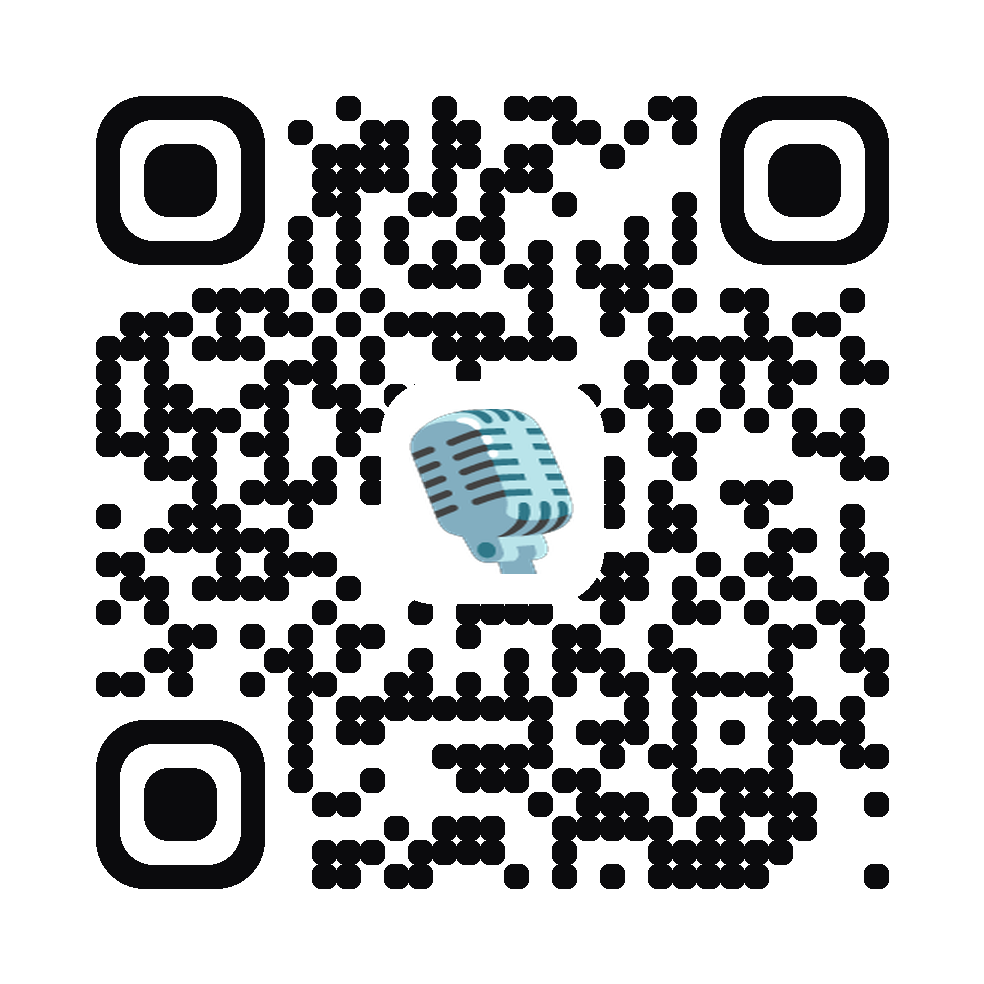
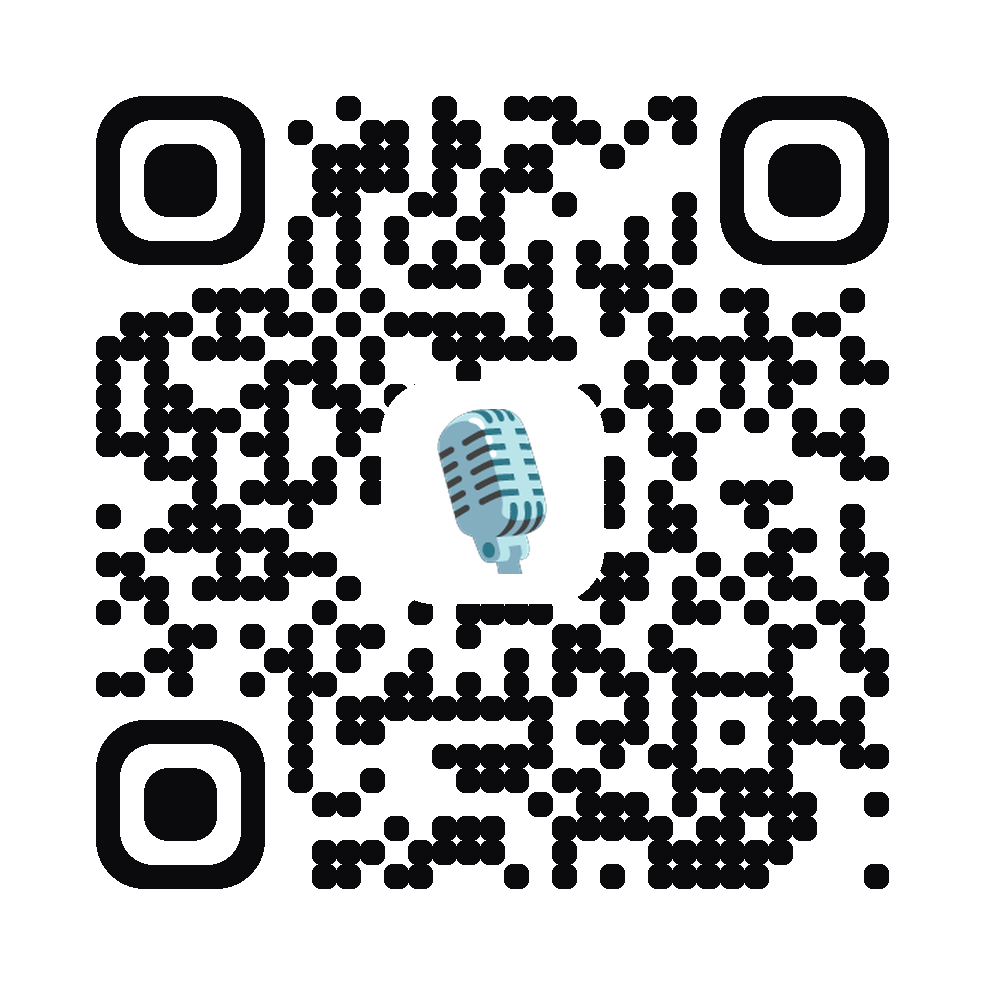
Download: drawer shows full Android/iPhone cards; square QR with unstretched mic

Changed region(s): [[0.3963, 0.3963, 0.5793, 0.5793]]

diff --git a/src/app/download/DownloadHub.tsx b/src/app/download/DownloadHub.tsx
@@ -2,6 +2,28 @@
 
 import { useEffect, useRef, useState } from "react";
 
+const ANDROID = {
+  file: "/downloads/openlounge-0.2.8.apk",
+  version: "0.2.8 (build 10)",
+  size: "6.9 MB",
[1 lines of base64/hex data omitted]
+};
+const IOS = {
+  install: "itms-services://?action=download-manifest&url=https://openlounge.app/downloads/openlounge-ios.plist",
+  file: "/downloads/openlounge-0.2.5-b14.ipa",
+  version: "0.2.5 (build 14)",
+  size: "8.6 MB",
[1 lines of base64/hex data omitted]
+};
+
+function Sha({ value }: { value: string }) {
+  return (
+    <p className="mt-3 text-xs text-zinc-500">
+      SHA-256: <code className="break-all text-zinc-400">{value}</code>
+    </p>
+  );
+}
+
 export function DownloadHub() {
   const [open, setOpen] = useState(false);
   const tabRef = useRef<HTMLButtonElement>(null);
@@ -22,7 +44,7 @@ export function DownloadHub() {
 
   return (
     <main className="relative flex min-h-dvh items-center justify-center overflow-hidden p-6">
-      <img src="/downloads/qr.png" alt="QR code to openlounge.app/download" className="w-64 max-w-[80vw] rounded-3xl bg-white p-3 md:w-80" data-testid="download-qr" />
+      <img src="/downloads/qr.png" alt="QR code to openlounge.app/download" width={984} height={984} className="aspect-square h-auto w-64 max-w-[80vw] rounded-3xl bg-white object-contain md:w-80" data-testid="download-qr" />
 
       {open && <div className="fixed inset-0 z-40 bg-black/40" onClick={() => setOpen(false)} aria-hidden="true" />}
 
@@ -33,7 +55,7 @@ export function DownloadHub() {
         aria-controls="get-app-drawer"
         onClick={() => setOpen((o) => !o)}
         data-testid="get-app-tab"
-        className={`fixed top-1/2 z-50 -translate-y-1/2 rounded-l-xl bg-zinc-800 px-2 py-4 text-sm font-semibold text-zinc-100 shadow-lg transition-[right] duration-300 [writing-mode:vertical-rl] ${open ? "right-72" : "right-0"}`}
+        className={`fixed top-1/2 z-50 -translate-y-1/2 rounded-l-xl bg-zinc-800 px-2 py-4 text-sm font-semibold text-zinc-100 shadow-lg transition-[right] duration-300 [writing-mode:vertical-rl] ${open ? "right-[min(24rem,88vw)]" : "right-0"}`}
       >
         Get the app
       </button>
@@ -44,21 +66,53 @@ export function DownloadHub() {
         aria-label="Get the app"
         aria-hidden={!open}
         inert={!open}
-        className={`fixed top-0 right-0 z-50 flex h-full w-72 flex-col justify-center gap-4 bg-zinc-900 p-6 shadow-2xl transition-transform duration-300 ${open ? "translate-x-0" : "translate-x-full"}`}
+        className={`fixed top-0 right-0 z-50 flex h-full w-[min(24rem,88vw)] flex-col overflow-y-auto bg-zinc-950 px-5 py-8 text-sm leading-relaxed text-zinc-300 shadow-2xl transition-transform duration-300 ${open ? "translate-x-0" : "translate-x-full"}`}
       >
         <button type="button" onClick={() => setOpen(false)} aria-label="Close" className="absolute top-4 right-4 rounded-full p-2 text-xl leading-none text-zinc-400 hover:text-white">
           ×
         </button>
-        <a ref={firstRef} href="/downloads/openlounge-0.2.8.apk" download data-testid="download-android" className="block rounded-full bg-emerald-500 px-5 py-3 text-center font-semibold text-black">
-          Download for Android
-        </a>
-        <a
-          href="itms-services://?action=download-manifest&url=https://openlounge.app/downloads/openlounge-ios.plist"
-          data-testid="download-ios"
-          className="block rounded-full bg-sky-500 px-5 py-3 text-center font-semibold text-black"
-        >
-          Install for iPhone
-        </a>
+        <h1 className="mb-1 text-2xl font-bold text-zinc-100">Get the app</h1>
+        <p className="mb-6 text-zinc-500">Test builds for family and friends.</p>
+
+        <section className="mb-5 rounded-2xl border border-white/10 bg-white/[0.03] p-5">
+          <h2 className="text-base font-semibold text-zinc-100">Android</h2>
+          <p className="text-zinc-500">Version {ANDROID.version} · {ANDROID.size}</p>
+          <a
+            ref={firstRef}
+            href={ANDROID.file}
+            download
+            className="mt-4 block rounded-full bg-emerald-500 px-5 py-3 text-center font-semibold text-black"
+            data-testid="download-android"
+          >
+            Download for Android
+          </a>
+          <p className="mt-3 text-zinc-400">
+            Open the downloaded file to install. If Android blocks it, allow &ldquo;Install unknown apps&rdquo; for your browser when prompted (Settings &gt; Apps &gt;
+            your browser &gt; Install unknown apps).
+          </p>
+          <Sha value={ANDROID.sha256} />
+        </section>
+
+        <section className="mb-5 rounded-2xl border border-white/10 bg-white/[0.03] p-5">
+          <h2 className="text-base font-semibold text-zinc-100">iPhone</h2>
+          <p className="text-zinc-500">Version {IOS.version} · {IOS.size}</p>
+          <a
+            href={IOS.install}
+            className="mt-4 block rounded-full bg-sky-500 px-5 py-3 text-center font-semibold text-black"
+            data-testid="download-ios"
+          >
+            Install on iPhone
+          </a>
+          <ul className="mt-3 list-disc space-y-1 pl-5 text-zinc-400">
+            <li>Only iPhones registered for this test build can install it.</li>
+            <li>Open this page in Safari, tap Install, then check your home screen.</li>
+            <li>No profile trust step in VPN &amp; Device Management is needed. On iOS 16+, you may need to turn on Settings &gt; Privacy &amp; Security &gt; Developer Mode.</li>
+          </ul>
+          <p className="mt-3 text-xs text-zinc-500">
+            Direct file: <a className="underline" href={IOS.file}>openlounge-0.2.5-b14.ipa</a>
+          </p>
+          <Sha value={IOS.sha256} />
+        </section>
       </div>
     </main>
   );
